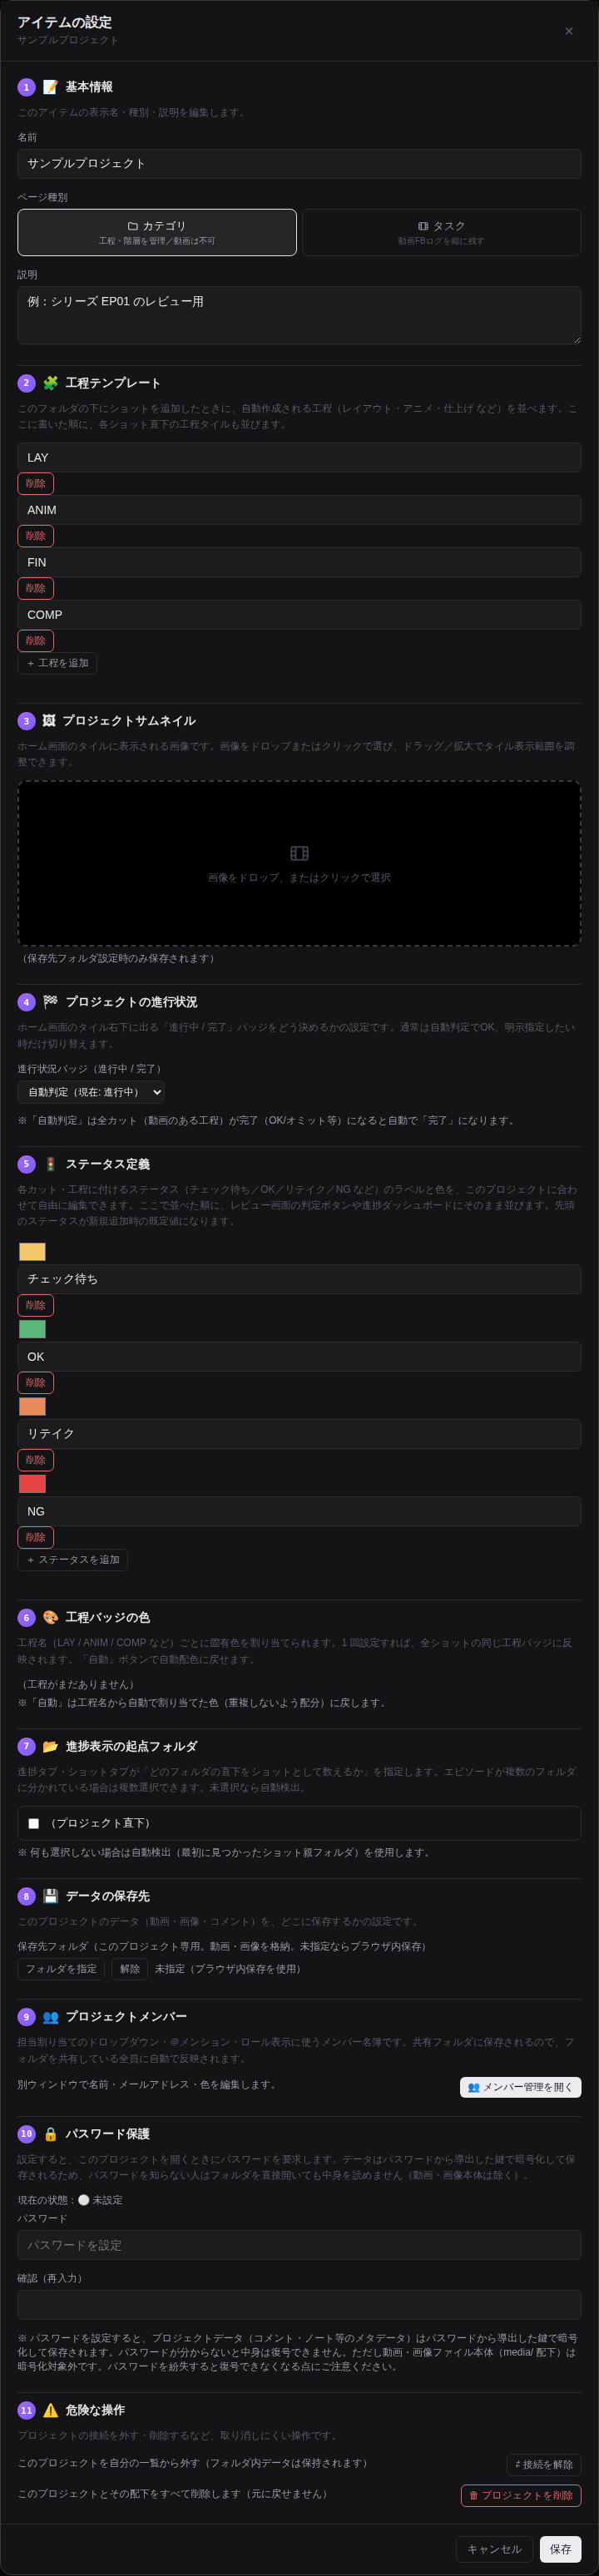
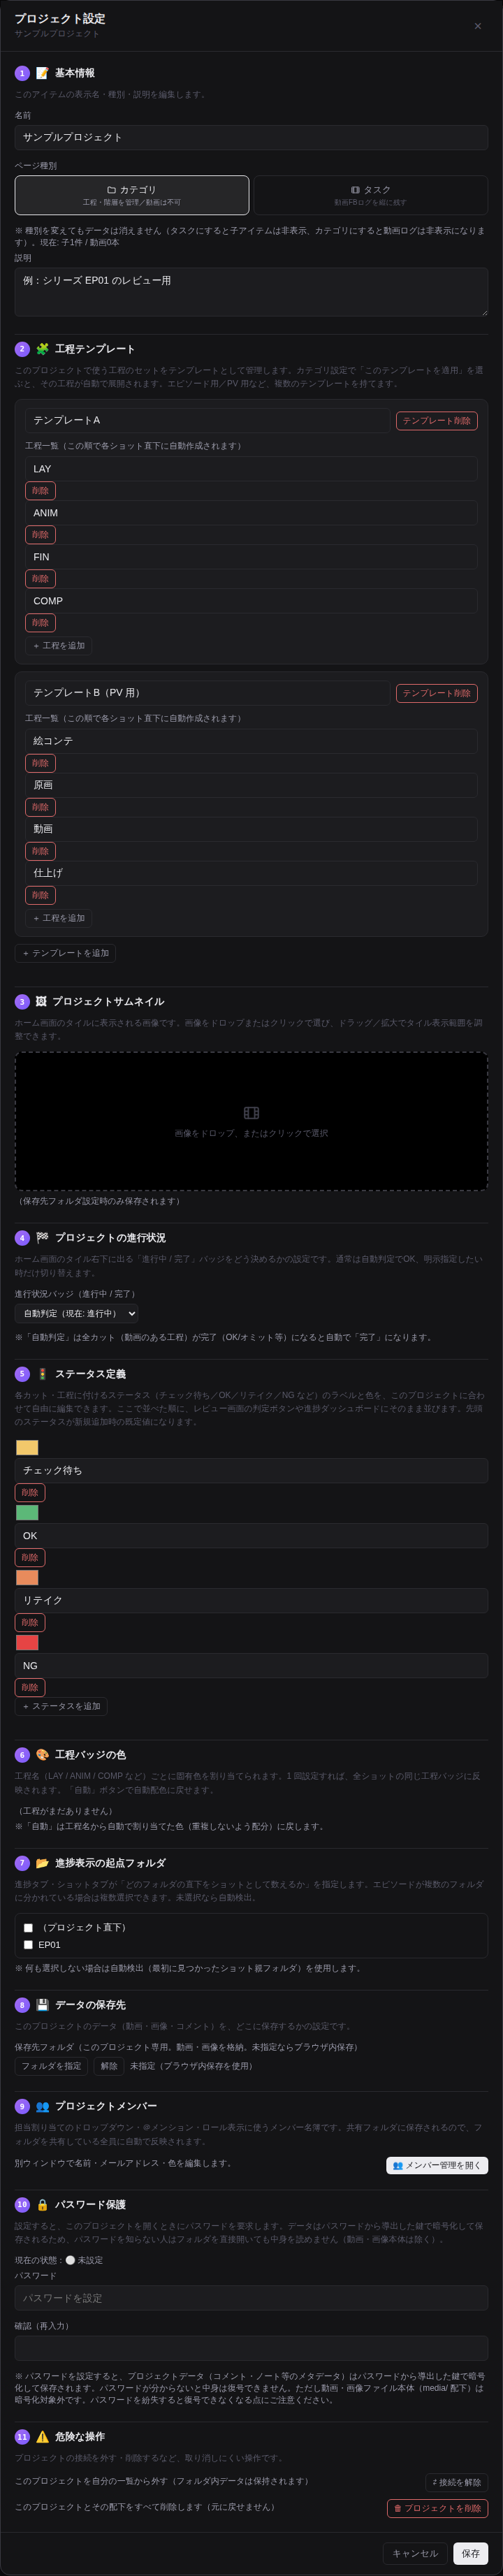
プロジェクト設定タイトル分離＋工程テンプレート複数化
- openRename: プロジェクトルート時のみタイトルを「プロジェクト設定」に。
  それ以外は従来通り「アイテムの設定」。
- 工程テンプレートを stageTemplates=[{id,name,stages[]}] の複数持ちに拡張。
  プロジェクト設定側で複数テンプレート（テンプレートA / テンプレートB…）を
  自由に定義できる。既存 root.stages は projectStageTemplates ヘルパーで
  遅延移行、保存時に先頭テンプレートを node.stages にも同期して後方互換維持。
- カテゴリのアイテム設定にプルダウン＋「このテンプレートを適用」ボタン。
  プロジェクトで作ったテンプレートを一発展開、以後は個別編集も可能。
- guide.html STEP 13 のテンプレート説明を更新、カテゴリ設定のスクショも追加。
- APP_VERSION 2026.07.23.016

Claude-Session: https://claude.ai/code/session_01TiJKjSCinCw9BbJGfU1AAQ

diff --git a/guide.html b/guide.html
@@ -307,10 +307,18 @@
 
   <h4 style="font-size:15px;font-weight:800;margin:22px 0 6px;color:var(--text)">① 工程テンプレート（LAY / ANIM / COMP など）</h4>
   <p style="color:var(--text2);font-size:14px;line-height:1.7">
-    「この中で管理する工程」欄で、<b>ショット追加時に自動作成される工程一覧</b>を定義します。
-    <b>「＋ 工程を追加」</b>で新しい工程名を入れ、色は自動で割り当てられます（工程名から一意に決まる）。
-    ここで並べた順に、各ショット直下の工程タイルも並びます。
+    ②「工程テンプレート」欄で、<b>このプロジェクトで使う工程セットを "テンプレート" として複数登録</b>できます
+    （例：「テンプレートA = LAY / ANIM / FIN / COMP」「テンプレートB（PV 用）= 絵コンテ / 原画 / 動画 / 仕上げ」）。
+    <b>「＋ 工程を追加」</b>で工程を追加、<b>「＋ テンプレートを追加」</b>で新しいテンプレートを作れます。
+    色は工程名から自動で割り当てられます（同じ名前なら常に同じ色）。
   </p>
+  <p style="color:var(--text2);font-size:14px;line-height:1.7;margin-top:6px">
+    ここで作ったテンプレートは、<b>カテゴリ（EP01 など）の「アイテムの設定」から選んで適用</b>できます。
+    カテゴリ設定の「工程テンプレート」セクションでプルダウン →「このテンプレートを適用」を押すと、
+    そのカテゴリの工程一覧に一発で展開されます。適用後も個別に工程を足したり削ったりできます。
+  </p>
+  <img class="shot" src="slides_assets/guide_cat_settings.png" alt="カテゴリのアイテム設定 ─ テンプレート適用プルダウン">
+  <figcaption>カテゴリの「アイテムの設定」 ─ プロジェクトで作ったテンプレートを選んで適用</figcaption>
 
   <h4 style="font-size:15px;font-weight:800;margin:22px 0 6px;color:var(--text)">② ステータス定義（チェック待ち / OK / リテイク など）</h4>
   <p style="color:var(--text2);font-size:14px;line-height:1.7">

diff --git a/UPDATE_LOG.md b/UPDATE_LOG.md
@@ -33,6 +33,10 @@
 - **Slack Incoming Webhook 通知（実験的）を廃止**：ユーザー判断で撤去。プロジェクト設定の Slack Webhook URL 入力欄・テスト送信ボタン、`notifySlackUpload` 関数、`uploadVersion` / `uploadExrSequence` の呼び出し、`slackWebhookRow` 変数を全て削除。既に保存済みの `root.slackWebhook` フィールドはプロジェクト JSON に残るが、参照するコードが無いので実害なし（次回書き出しで整理したい場合は別途 migration）。
 - **同時編集リスク低減 Phase 1：サブミット JSON 分割保存**を実装。従来 `project.json` 内の `submits[]` 配列に全サブミットを詰めていた構造を、`submits/<subId>.json` の個別ファイル + `project.json.submitIds`（ID インデックス）に分割。別々のサブミットを並行編集しても衝突しなくなる。実装：`storage.loadSubmit / saveSubmit / delSubmit / loadAllSubmits`、暗号化封筒 `encryptSubmit / decryptSubmit`、保存時分割ヘルパー `saveProjectSplit`（変更検知＝`_saveCache.submit[pid][sid]`）、ロード時 hydrate（`_hydrateSubmits`）を追加。旧形式（`submits[]` 生データ）は次回保存で自動的に分割形式へ移行。R2 は Worker の `/purge` でまとめて掃除、フォルダは delProject 時に `submits/` ディレクトリを再帰削除。
 - **同時編集リスク低減 Phase 2：ショット JSON 分割保存**を実装。ショット単位（＝プロジェクトルート以外の `type='section'` で子が全て `review` のノード）で `shots/<shotId>.json` に「ショット本体 + 配下の全タスク」のフルデータを格納、`project.json` は骨格のみ（`nodes` は `versions/comments/_vtomb` を抜いた軽量版 + `shotIds` インデックス）に。別々のショットを並行編集しても衝突しなくなる。実装：`storage.loadShot / saveShot / delShot / loadAllShots`、`encryptShot / decryptShot`、`_isShotNodeForSave` / `_skeletonNode` ヘルパー、`saveProjectSplit` にショット分割を統合、`_hydrateShots` で並列ロード → nodes[] に Object.assign で復元。v:4 マーカーで新形式判定、v<4 のプロジェクトは boot 時に検出して初回移行モーダル `offerPhase2Migration` を表示（ユーザーが「移行を実行」→ persist で全プロジェクト再保存 → 自動分割）。delProject 時に `shots/` ディレクトリも掃除。
+- **プロジェクト設定と工程テンプレート機能を分離**：
+  1. モーダルタイトルを、プロジェクトルート（`parentId===null`）の場合のみ「**プロジェクト設定**」に、それ以外（カテゴリ・工程）は従来通り「アイテムの設定」に分岐。
+  2. **工程テンプレートを「複数持てるテンプレート集合」に拡張**。プロジェクト設定の②工程テンプレートセクションで `stageTemplates=[{id,name,stages[]}...]` を編集（テンプレートA / テンプレートB / … と自由に増やせる）。既存の `root.stages` は初回オープン時に `projectStageTemplates` ヘルパーで「テンプレートA」として遅延移行、保存時は先頭テンプレートを `node.stages` にも同期して後方互換維持。
+  3. **カテゴリ（サブセクション）のアイテムの設定②工程テンプレート**にプルダウン＋「このテンプレートを適用」ボタンを追加。プロジェクトで作ったテンプレートを一発で展開でき、その後は個別に工程を足したり削ったりも可能。
 - **プロジェクト設定モーダルを 11 セクションに整理**（何の設定かひと目でわかるように）。従来は薄い `form-label` のラベルだけが縦に並んでいて、どこまでが 1 セクションか読み取りづらかったのを、番号付きの見出し（`.settings-section`）と絵文字アイコン、1〜2 行の補足文（`.settings-help`）を追加して整理：①基本情報／②工程テンプレート／③プロジェクトサムネイル／④プロジェクトの進行状況／⑤ステータス定義／⑥工程バッジの色／⑦進捗表示の起点フォルダ／⑧データの保存先／⑨プロジェクトメンバー／⑩パスワード保護／⑪危険な操作。メンバー管理ボタンも「👥 メンバー管理…」→「👥 メンバー管理を開く」に文言変更し primary スタイルに昇格。CSS で `border-top` によるセクション境界も可視化。
 - **はじめ方ガイド（`guide.html`）に プロジェクト設定 STEP 13 を追加**。STEP 2「＋ 新規プロジェクト」から `#projset` へのジャンプリンクを設置、STEP 13 では設定モーダルとメンバー管理ウィンドウの実スクショ付きで、工程テンプレート／ステータス定義／メンバー管理／その他（サムネ・保存先・パスワード・削除）を順に解説。
 - **はじめ方ガイド（`guide.html`）に REEL とサブミットの詳細ステップを追加**、また STEP 5「動画をアップロード」に <b>ドラッグ&ドロップでも追加可能</b>（複数ファイル・EXR 連番も対応）である旨を追記。STEP 5 / STEP 6 から新規 STEP 11（REEL の使い方）／STEP 12（サブミットの使い方）へのジャンプリンク（`#reel` / `#submit` アンカー）を設置。REEL は「複数ショットの最新版を 1 本の映像のように連続再生」ラッシュチェック用途を、サブミットは「複数タスクの版を 1 束にまとめてチェック依頼を出す」（1 通の通知でチェック担当が全体把握できる）用途を、5 ステップの手順＋ Tip ＋ Warn で解説。